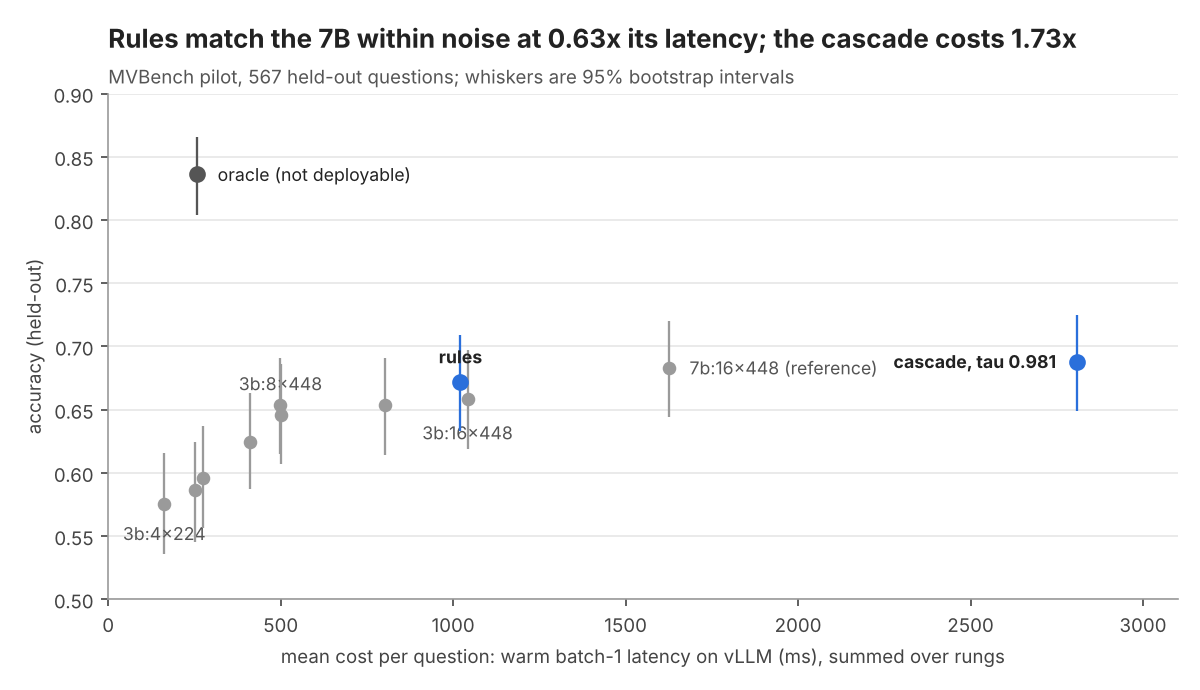
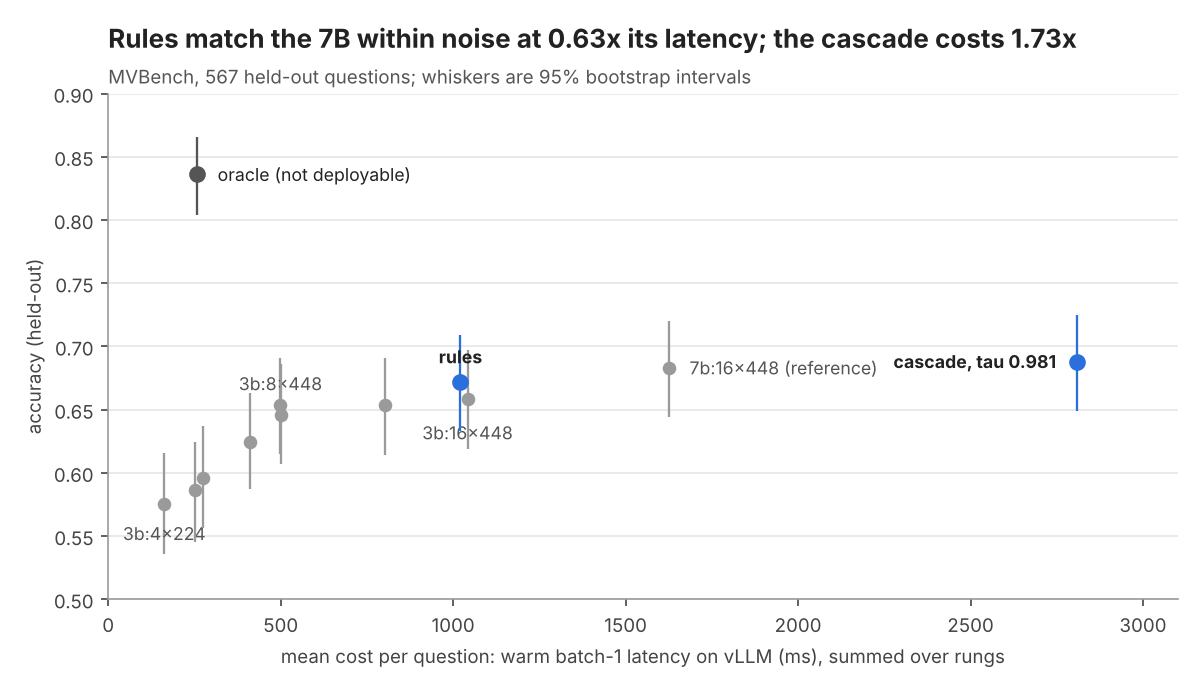
Drop "pilot" from the README's description of the results
The results are described as the fixed-seed 30% MVBench subset instead.
The --pilot flag, MODE=pilot and results/<dataset>_pilot/ paths are
unchanged. The summary JSON is renamed to mvbench_2026-10-19.json, the
accuracy figure's subtitle is redrawn, and the notebook is rebuilt.

Changed region(s): [[0.1542, 0.0913, 0.6783, 0.1217]]

diff --git a/tools/make_readme_figures.py b/tools/make_readme_figures.py
@@ -1,4 +1,4 @@
-"""Draw the README figures from docs/results/pilot_2026-10-19.json.
+"""Draw the README figures from docs/results/mvbench_2026-10-19.json.
 
     python tools/make_readme_figures.py
 
@@ -17,7 +17,7 @@ matplotlib.use("Agg")
 import matplotlib.pyplot as plt  # noqa: E402
 
 ROOT = Path(__file__).resolve().parents[1]
-DATA = ROOT / "docs" / "results" / "pilot_2026-10-19.json"
+DATA = ROOT / "docs" / "results" / "mvbench_2026-10-19.json"
 OUT = ROOT / "docs" / "figures"
 ACCENT, GREY, DARK, LIGHT = "#2a6fdb", "#9a9a9a", "#222222", "#e6e6e6"
 
@@ -94,7 +94,7 @@ def frontier_figure(d: dict) -> None:
                   fontsize=9, color="#444444")
     ax.set_ylabel("accuracy (held-out)", fontsize=9, color="#444444")
     _style(ax, "Rules match the 7B within noise at 0.63x its latency; the cascade costs 1.73x",
-           "MVBench pilot, 567 held-out questions; whiskers are 95% bootstrap intervals")
+           "MVBench, 567 held-out questions; whiskers are 95% bootstrap intervals")
     fig.tight_layout()
     fig.savefig(OUT / "mvbench_accuracy_vs_cost.png")
     plt.close(fig)

diff --git a/README.md b/README.md
@@ -43,12 +43,12 @@ wrong ones, and the report says so either way.
 ## Results
 
 First full run: **Kaggle 2x NVIDIA T4, vLLM 0.32.0, Qwen2.5-VL-3B (fp16) and
-Qwen2.5-VL-7B-AWQ, MVBench pilot, October 19 2026.** Every number below is copied from that
+Qwen2.5-VL-7B-AWQ, MVBench (1,135-question fixed-seed subset), October 19 2026.** Every number below is copied from that
 run's generated report and serving summaries into
-[`docs/results/pilot_2026-10-19.json`](docs/results/pilot_2026-10-19.json), and the figures
+[`docs/results/mvbench_2026-10-19.json`](docs/results/mvbench_2026-10-19.json), and the figures
 are drawn from that file by [`tools/make_readme_figures.py`](tools/make_readme_figures.py).
-This is a pilot (30% of MVBench), so treat differences inside the confidence intervals as
-ties.
+The run used a fixed-seed 30% of MVBench, stratified by task, so treat differences inside
+the confidence intervals as ties.
 
 ### 1. GPU time follows visual tokens
 
@@ -72,7 +72,7 @@ Up to about 1,000 visual tokens, vision encoder plus prefill costs a roughly con
 | Confidence cascade (τ = 0.981) | 0.688 (0.649–0.725) | 2,809 ms | 1.73x |
 | Oracle (not deployable) | 0.836 (0.804–0.866) | 257 ms | 0.16x |
 
-1,135 pilot questions over 19 tasks; τ and the rules were fit on 568 and scored on the
+1,135 questions over 19 tasks; τ and the rules were fit on 568 and scored on the
 other 567. Cost is warm batch-1 latency on vLLM, and a cascade pays for every rung it runs.
 
 - **Rules** (one setting per task family) match the 7B within noise at 0.63x its latency.
@@ -176,7 +176,7 @@ decoded-frame cache to `data/frame_cache` (`FOVEATE_CACHE`).
 | E5 | Serving | 5 Serve | cascade vs best static setting under the same Poisson traces at 0.5 / 1 / 2 req/s: p50/p95/p99, throughput |
 | E6 | Driving demo | 2–3 | LingoQA (free-form, Lingo-Judge) through the same pipeline |
 
-E0–E5 have run on the MVBench pilot ([Results](#results)). E6 is implemented but not yet
+E0–E5 have run on MVBench ([Results](#results)). E6 is implemented but not yet
 reported; its download can be rate-limited.
 
 **What each stage does**
@@ -238,10 +238,10 @@ writes and what a healthy run looks like.
 |---|---|---|
 | Token math, stats, data selection, corruptions, memory guard, dtype rules | unit tests | ✅ CPU |
 | Transformers backend: processor → Qwen2.5-VL forward → CUDA-event hooks → letter log-probs | tiny random Qwen2.5-VL in tests; real 3B profile on T4 | ✅ CPU and GPU |
-| vLLM offline engine with real Qwen2.5-VL-3B and 7B-AWQ, T4 fp16 numerics | `foveate smoke` and the MVBench pilot on Kaggle 2x T4 | ✅ GPU (Oct 2026) |
-| Grid → replay → shift → report | stand-in model in tests; MVBench pilot on GPU | ✅ CPU and GPU |
+| vLLM offline engine with real Qwen2.5-VL-3B and 7B-AWQ, T4 fp16 numerics | `foveate smoke` and the MVBench run on Kaggle 2x T4 | ✅ GPU (Oct 2026) |
+| Grid → replay → shift → report | stand-in model in tests; MVBench run on GPU | ✅ CPU and GPU |
 | Gateway cascade, routing check, load generator against real `vllm serve` | fake OpenAI-compatible server in tests; 6 load runs × 200 requests on GPU | ✅ CPU and GPU |
-| Full MVBench (not pilot), LingoQA, other GPUs or model families | — | ❌ not run |
+| All of MVBench (beyond the 30% subset), LingoQA, other GPUs or model families | — | ❌ not run |
 
 `pytest -q` runs 38 tests in CI on Python 3.11 and 3.12. Rows produced by the test stand-in
 model are marked MOCKED, and the smoke checker rejects mocked timings.
@@ -289,7 +289,7 @@ tests/                 CPU tests (tiny random Qwen2.5-VL, fake model, fake vLLM 
 
 ## Limitations
 
-- **Pilot scale.** The results use 30% of MVBench (567 held-out questions), so intervals are
+- **Subset scale.** The results use 30% of MVBench (567 held-out questions), so intervals are
   about ±4 points. Several policy differences are within noise.
 - **One model family, one GPU type.** Qwen2.5-VL 3B and 7B-AWQ on T4s. The 7B is
   quantized, which may contribute to its overconfidence.
